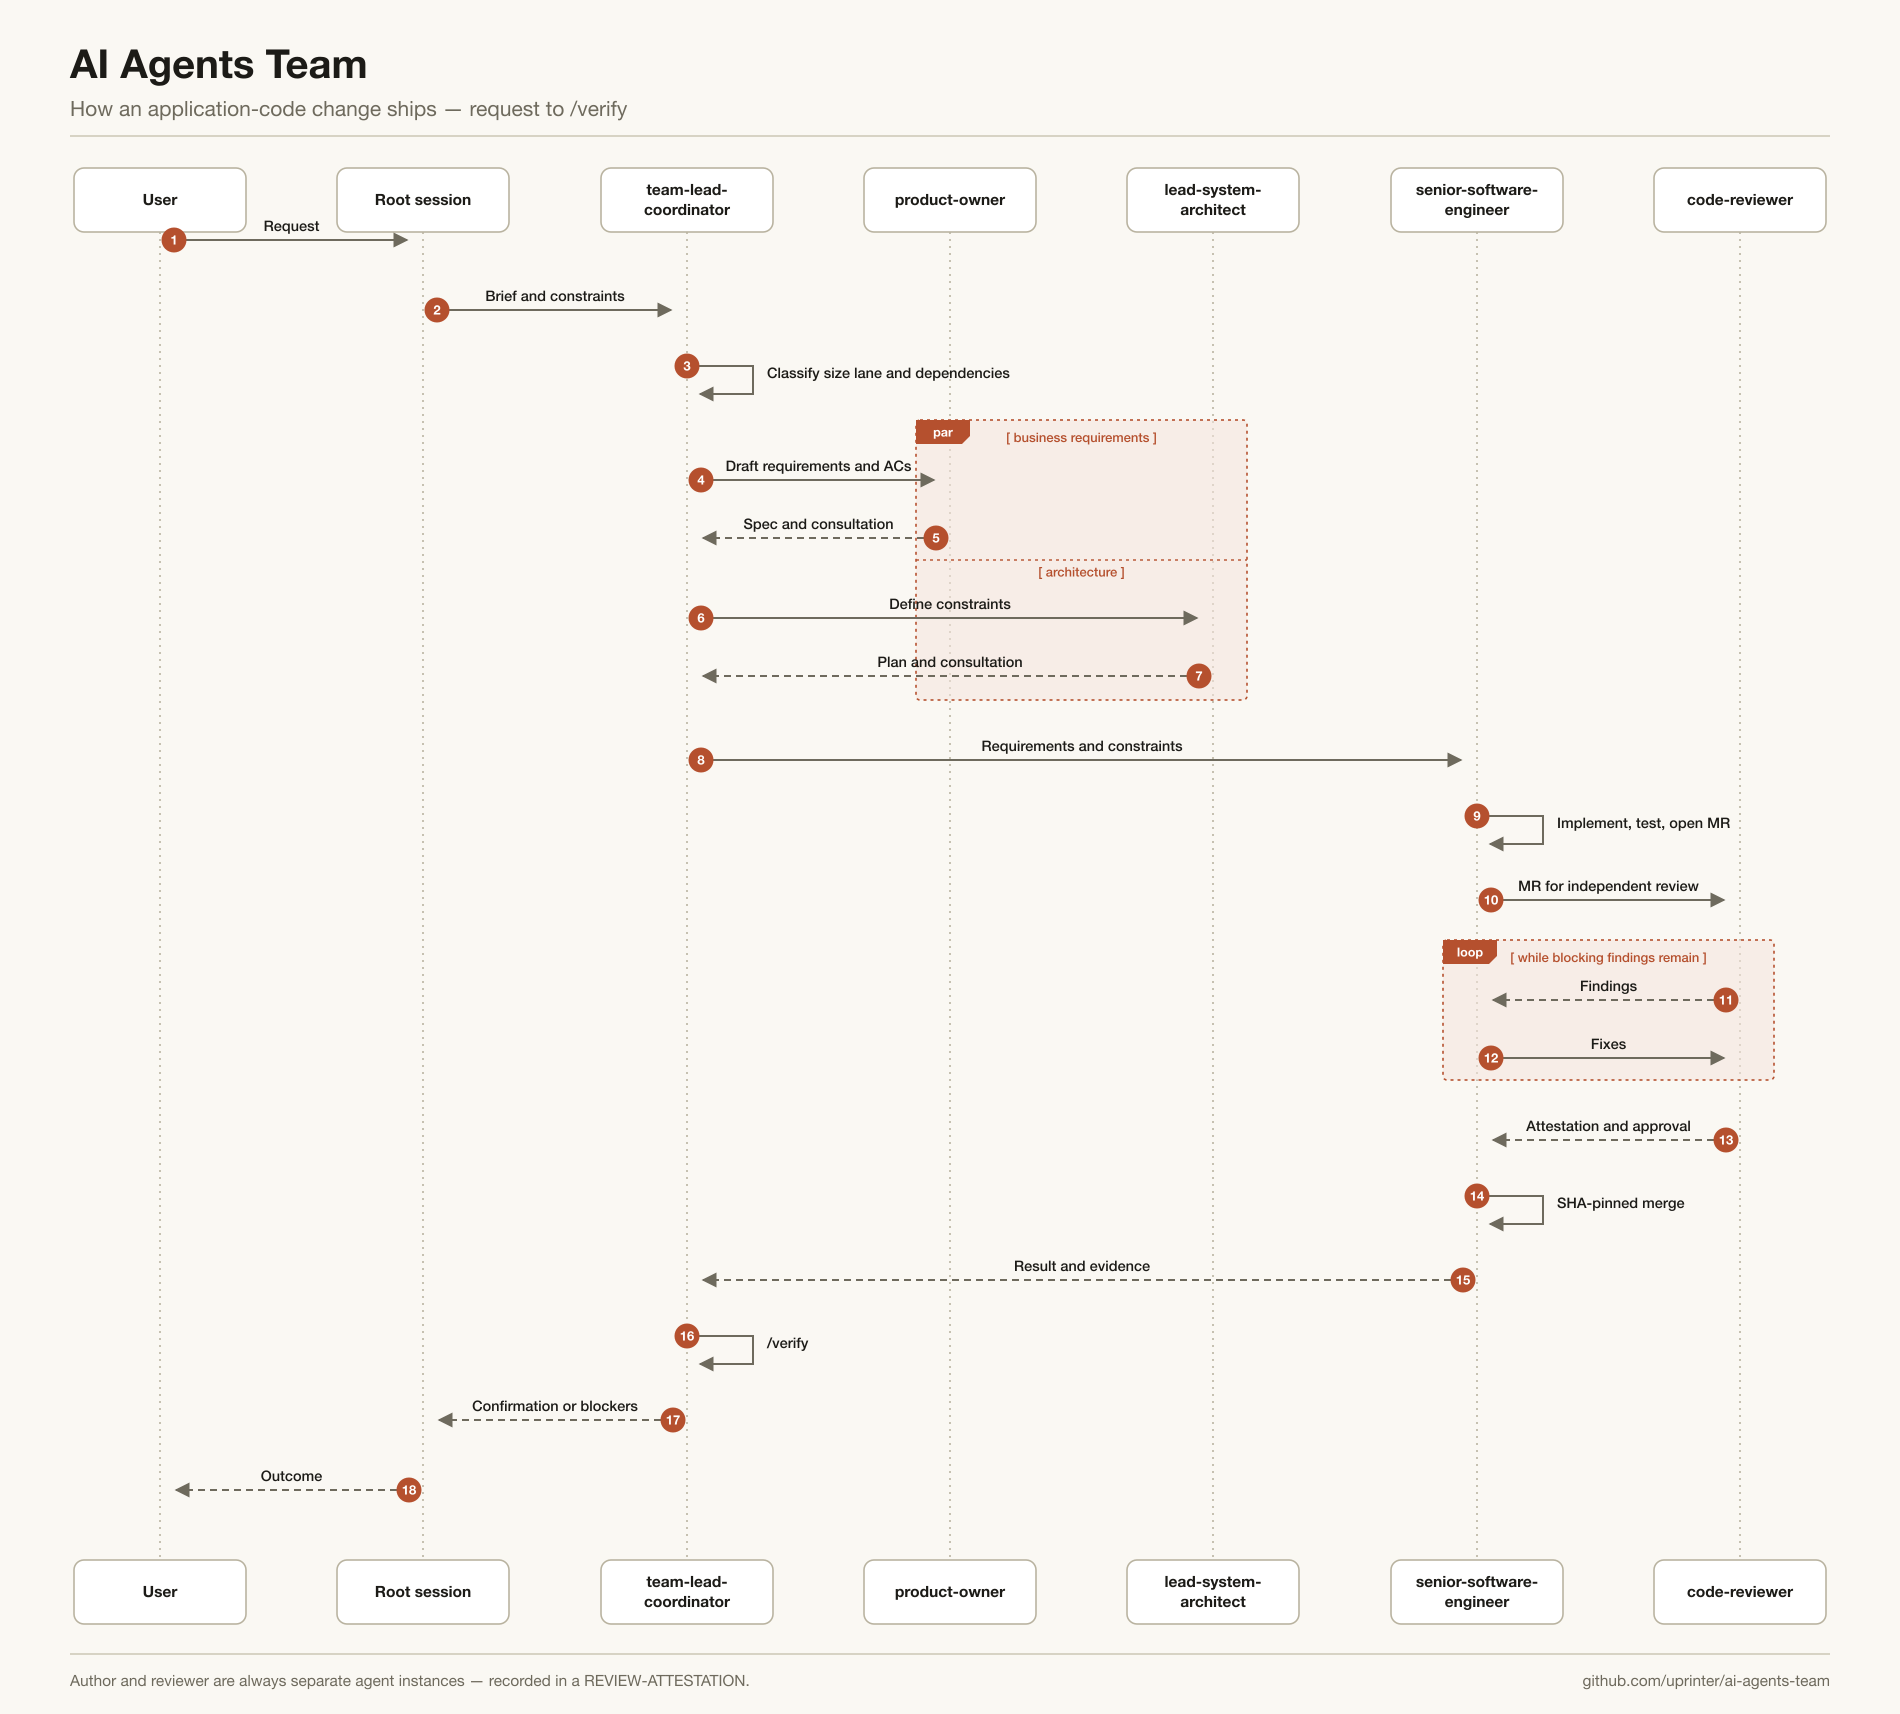
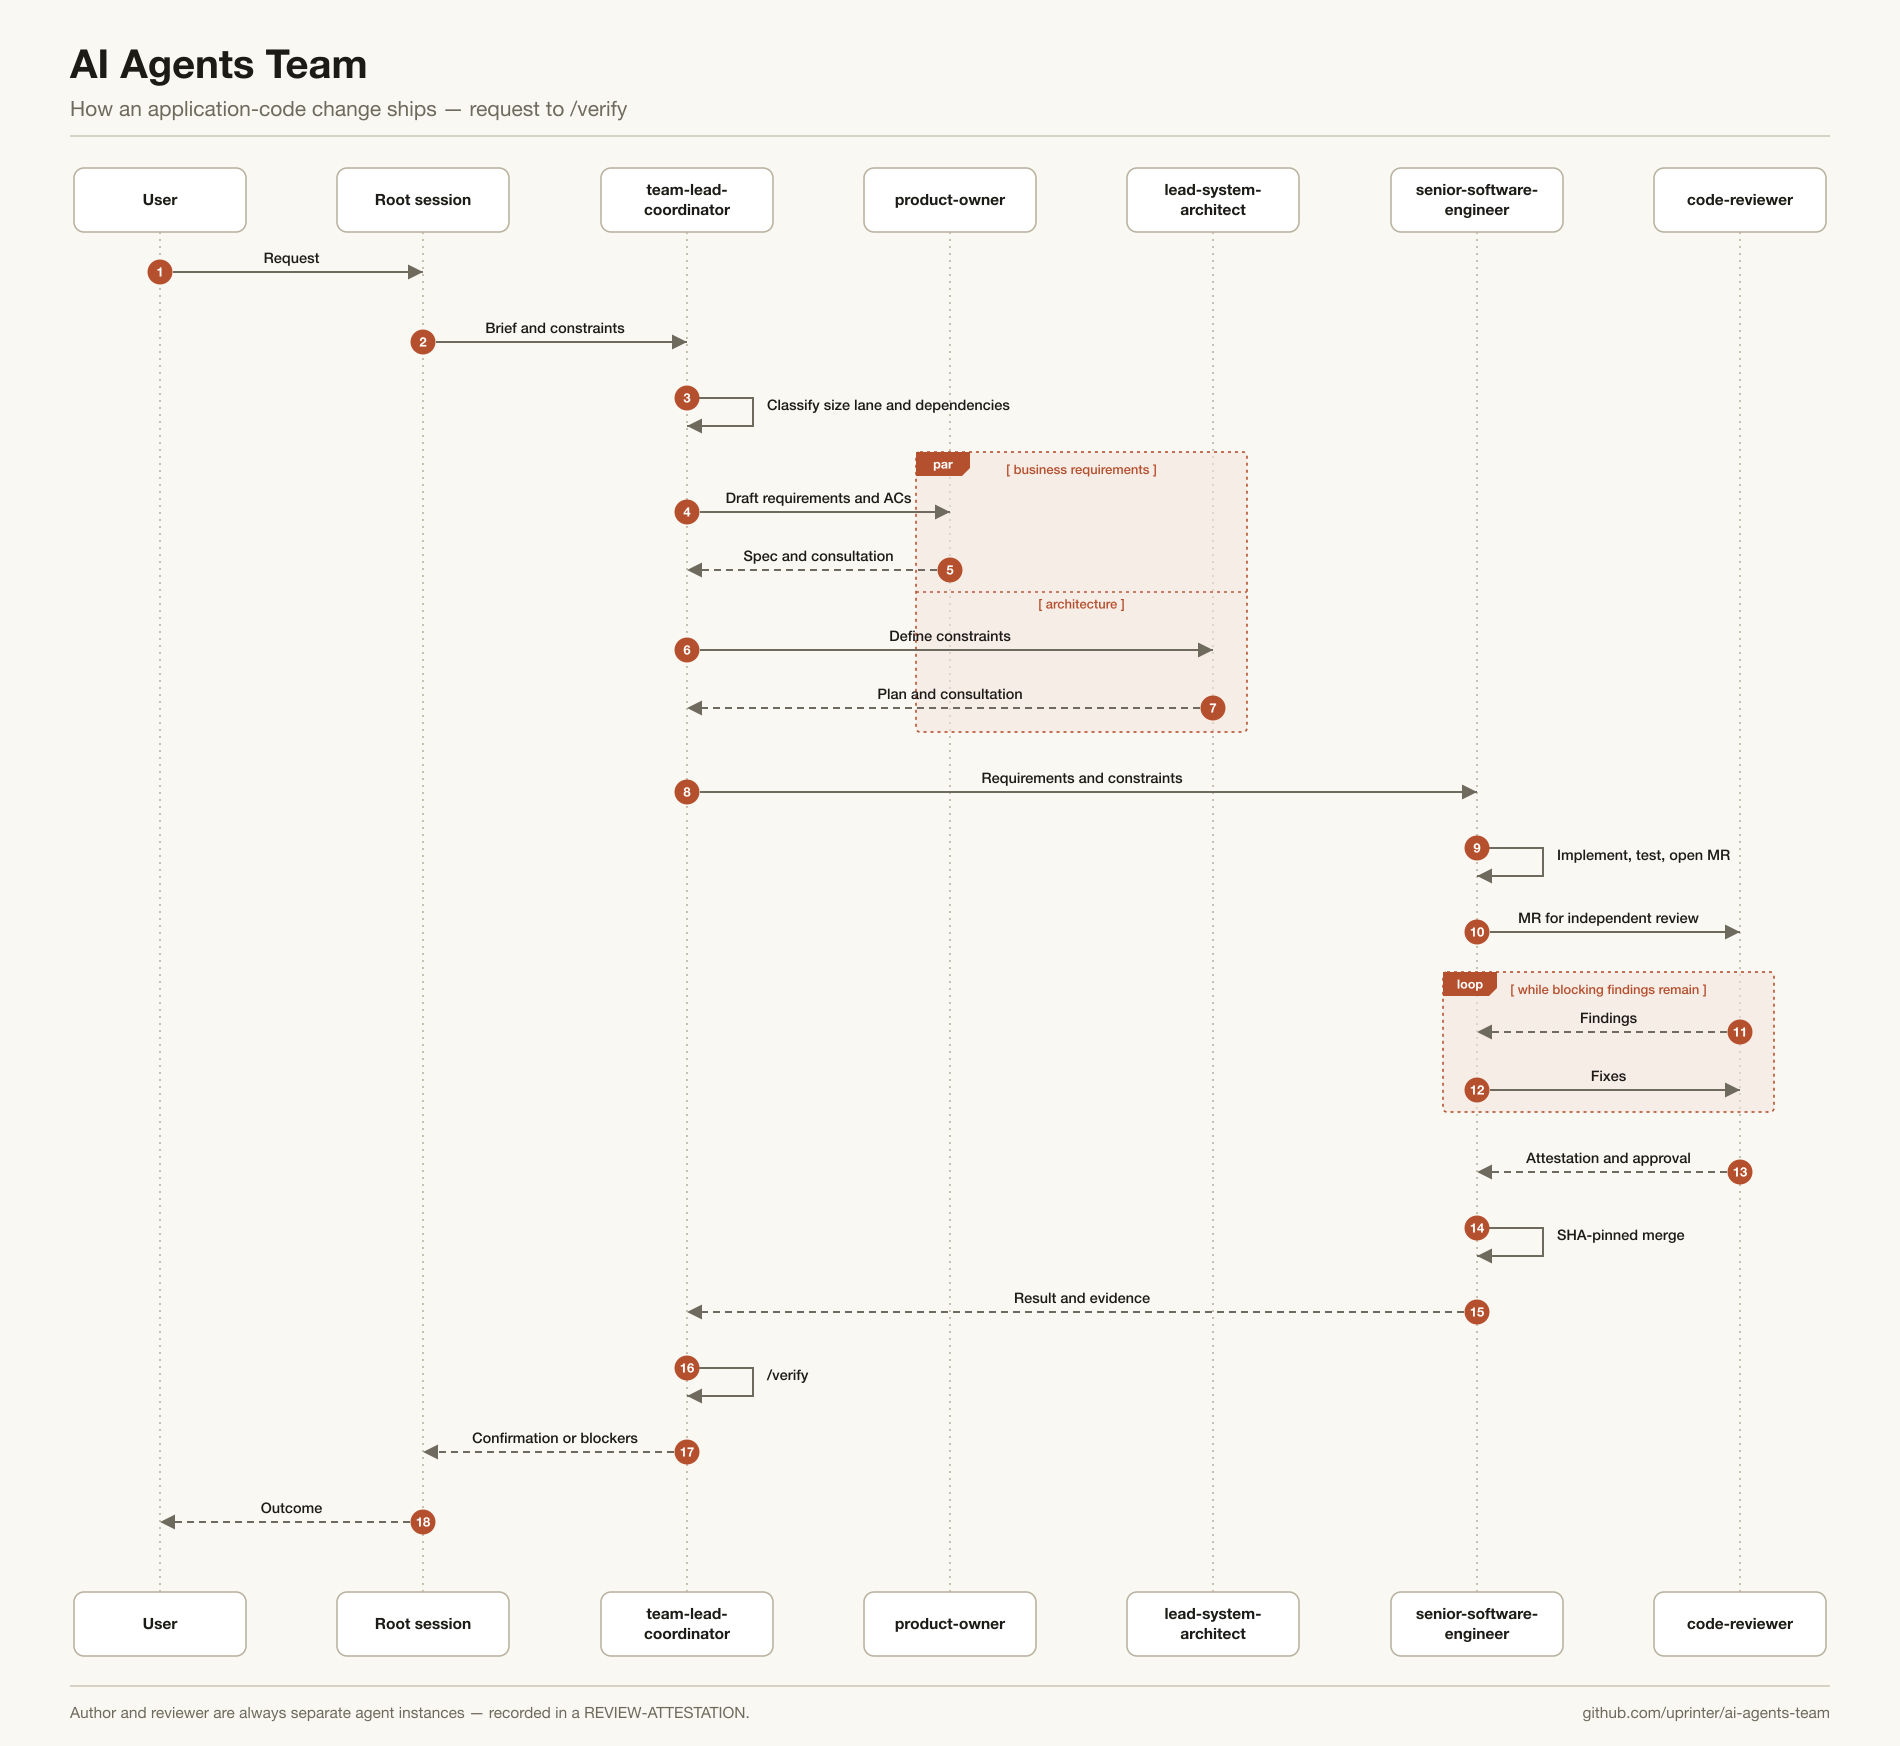
fix: correct arrow markers, badge centering, and header clearance in agent-flow diagram
- Arrow marker refX was 9/10, leaving a visible gap before the destination
  lifeline; set to 10 so the tip lands exactly on the line.
- Step-number badges were offset +/-14px from the lifeline instead of
  centered on it; badges now sit exactly on the lifeline, with the arrow
  line starting just outside the badge radius.
- The first row (badge 1) overlapped the actor boxes' bottom edge; shifted
  the whole message body down 32px to clear it.

diff --git a/docs/generate-agent-flow.py b/docs/generate-agent-flow.py
@@ -35,7 +35,7 @@ actors = [
 ax = {k: x for k, _, x in actors}
 
 TOP = 168
-BOTTOM = 1560
+BOTTOM = 1592
 BOX_W, BOX_H = 172, 64
 
 lines = []
@@ -72,18 +72,17 @@ def badge(x, y, n):
 def arrow(y, src, dst, label, n, dashed=False, label_dy=-9):
     x1, x2 = ax[src], ax[dst]
     forward = x2 > x1
-    tip = x2 - (16 if forward else -16)
     stroke_style = f'stroke-dasharray="7 5"' if dashed else ""
-    lines.append(f'<line x1="{x1+ (14 if forward else -14):.1f}" y1="{y:.1f}" x2="{tip:.1f}" y2="{y:.1f}" '
+    lines.append(f'<line x1="{x1+ (13 if forward else -13):.1f}" y1="{y:.1f}" x2="{x2:.1f}" y2="{y:.1f}" '
                  f'stroke="{MUTED}" stroke-width="2" {stroke_style} marker-end="url(#arrow)"/>')
     mid = (x1 + x2) / 2
     text(mid, y+label_dy, label, size=14.5, weight=600, fill=INK)
-    badge(x1 + (14 if forward else -14), y, n)
+    badge(x1, y, n)
 
 def self_msg(y, actor, label, n):
     x = ax[actor]
     hook = 66
-    lines.append(f'<path d="M {x:.1f} {y-14:.1f} L {x+hook:.1f} {y-14:.1f} L {x+hook:.1f} {y+14:.1f} L {x+13:.1f} {y+14:.1f}" '
+    lines.append(f'<path d="M {x:.1f} {y-14:.1f} L {x+hook:.1f} {y-14:.1f} L {x+hook:.1f} {y+14:.1f} L {x:.1f} {y+14:.1f}" '
                  f'fill="none" stroke="{MUTED}" stroke-width="2" marker-end="url(#arrow)"/>')
     text(x+hook+14, y-2, label, size=14.5, weight=600, fill=INK, anchor="start")
     badge(x, y-14, n)
@@ -113,33 +112,33 @@ for key, label, x in actors:
     actor_box(x, TOP, label)
     lifeline(x)
 
-# ---- rows ----
-arrow(240, "U", "R", "Request", 1)
-arrow(310, "R", "C", "Brief and constraints", 2)
-self_msg(380, "C", "Classify size lane and dependencies", 3)
+# ---- rows ---- (shifted +32 from box bottom so badge 1 clears the actor boxes)
+arrow(272, "U", "R", "Request", 1)
+arrow(342, "R", "C", "Brief and constraints", 2)
+self_msg(412, "C", "Classify size lane and dependencies", 3)
 
-fragment(420, 700, ax["PO"], ax["A"], "par", top_label=None, mid_label="[ architecture ]", mid_y=560)
-text((ax["PO"]+ax["A"])/2, 442, "[ business requirements ]", size=13, weight=600, fill=ACCENT, anchor="middle")
-arrow(480, "C", "PO", "Draft requirements and ACs", 4)
-arrow(538, "PO", "C", "Spec and consultation", 5, dashed=True)
-arrow(618, "C", "A", "Define constraints", 6)
-arrow(676, "A", "C", "Plan and consultation", 7, dashed=True)
+fragment(452, 732, ax["PO"], ax["A"], "par", top_label=None, mid_label="[ architecture ]", mid_y=592)
+text((ax["PO"]+ax["A"])/2, 474, "[ business requirements ]", size=13, weight=600, fill=ACCENT, anchor="middle")
+arrow(512, "C", "PO", "Draft requirements and ACs", 4)
+arrow(570, "PO", "C", "Spec and consultation", 5, dashed=True)
+arrow(650, "C", "A", "Define constraints", 6)
+arrow(708, "A", "C", "Plan and consultation", 7, dashed=True)
 
-arrow(760, "C", "E", "Requirements and constraints", 8)
-self_msg(830, "E", "Implement, test, open MR", 9)
-arrow(900, "E", "CR", "MR for independent review", 10)
+arrow(792, "C", "E", "Requirements and constraints", 8)
+self_msg(862, "E", "Implement, test, open MR", 9)
+arrow(932, "E", "CR", "MR for independent review", 10)
 
-fragment(940, 1080, ax["E"], ax["CR"], "loop")
-text((ax["E"]+ax["CR"])/2, 962, "[ while blocking findings remain ]", size=13, weight=600, fill=ACCENT, anchor="middle")
-arrow(1000, "CR", "E", "Findings", 11, dashed=True)
-arrow(1058, "E", "CR", "Fixes", 12)
+fragment(972, 1112, ax["E"], ax["CR"], "loop")
+text((ax["E"]+ax["CR"])/2, 994, "[ while blocking findings remain ]", size=13, weight=600, fill=ACCENT, anchor="middle")
+arrow(1032, "CR", "E", "Findings", 11, dashed=True)
+arrow(1090, "E", "CR", "Fixes", 12)
 
-arrow(1140, "CR", "E", "Attestation and approval", 13, dashed=True)
-self_msg(1210, "E", "SHA-pinned merge", 14)
-arrow(1280, "E", "C", "Result and evidence", 15, dashed=True)
-self_msg(1350, "C", "/verify", 16)
-arrow(1420, "C", "R", "Confirmation or blockers", 17, dashed=True)
-arrow(1490, "R", "U", "Outcome", 18, dashed=True)
+arrow(1172, "CR", "E", "Attestation and approval", 13, dashed=True)
+self_msg(1242, "E", "SHA-pinned merge", 14)
+arrow(1312, "E", "C", "Result and evidence", 15, dashed=True)
+self_msg(1382, "C", "/verify", 16)
+arrow(1452, "C", "R", "Confirmation or blockers", 17, dashed=True)
+arrow(1522, "R", "U", "Outcome", 18, dashed=True)
 
 # ---- actor boxes (bottom) ----
 for key, label, x in actors:
@@ -155,7 +154,7 @@ H = BOTTOM + BOX_H + 90
 svg = f'''<svg width="{W}" height="{H}" viewBox="0 0 {W} {H}" xmlns="http://www.w3.org/2000/svg" role="img"
   aria-label="Sequence diagram: a change request flows from the user through the coordinator, which consults the product owner and architect in parallel, then hands off to the engineer, whose merge request goes through an independent review loop with the reviewer before a SHA-pinned merge and /verify.">
   <defs>
-    <marker id="arrow" viewBox="0 0 10 10" refX="9" refY="5" markerWidth="7.5" markerHeight="7.5" orient="auto-start-reverse">
+    <marker id="arrow" viewBox="0 0 10 10" refX="10" refY="5" markerWidth="7.5" markerHeight="7.5" orient="auto-start-reverse">
       <path d="M0,0 L10,5 L0,10 z" fill="{MUTED}"/>
     </marker>
   </defs>
